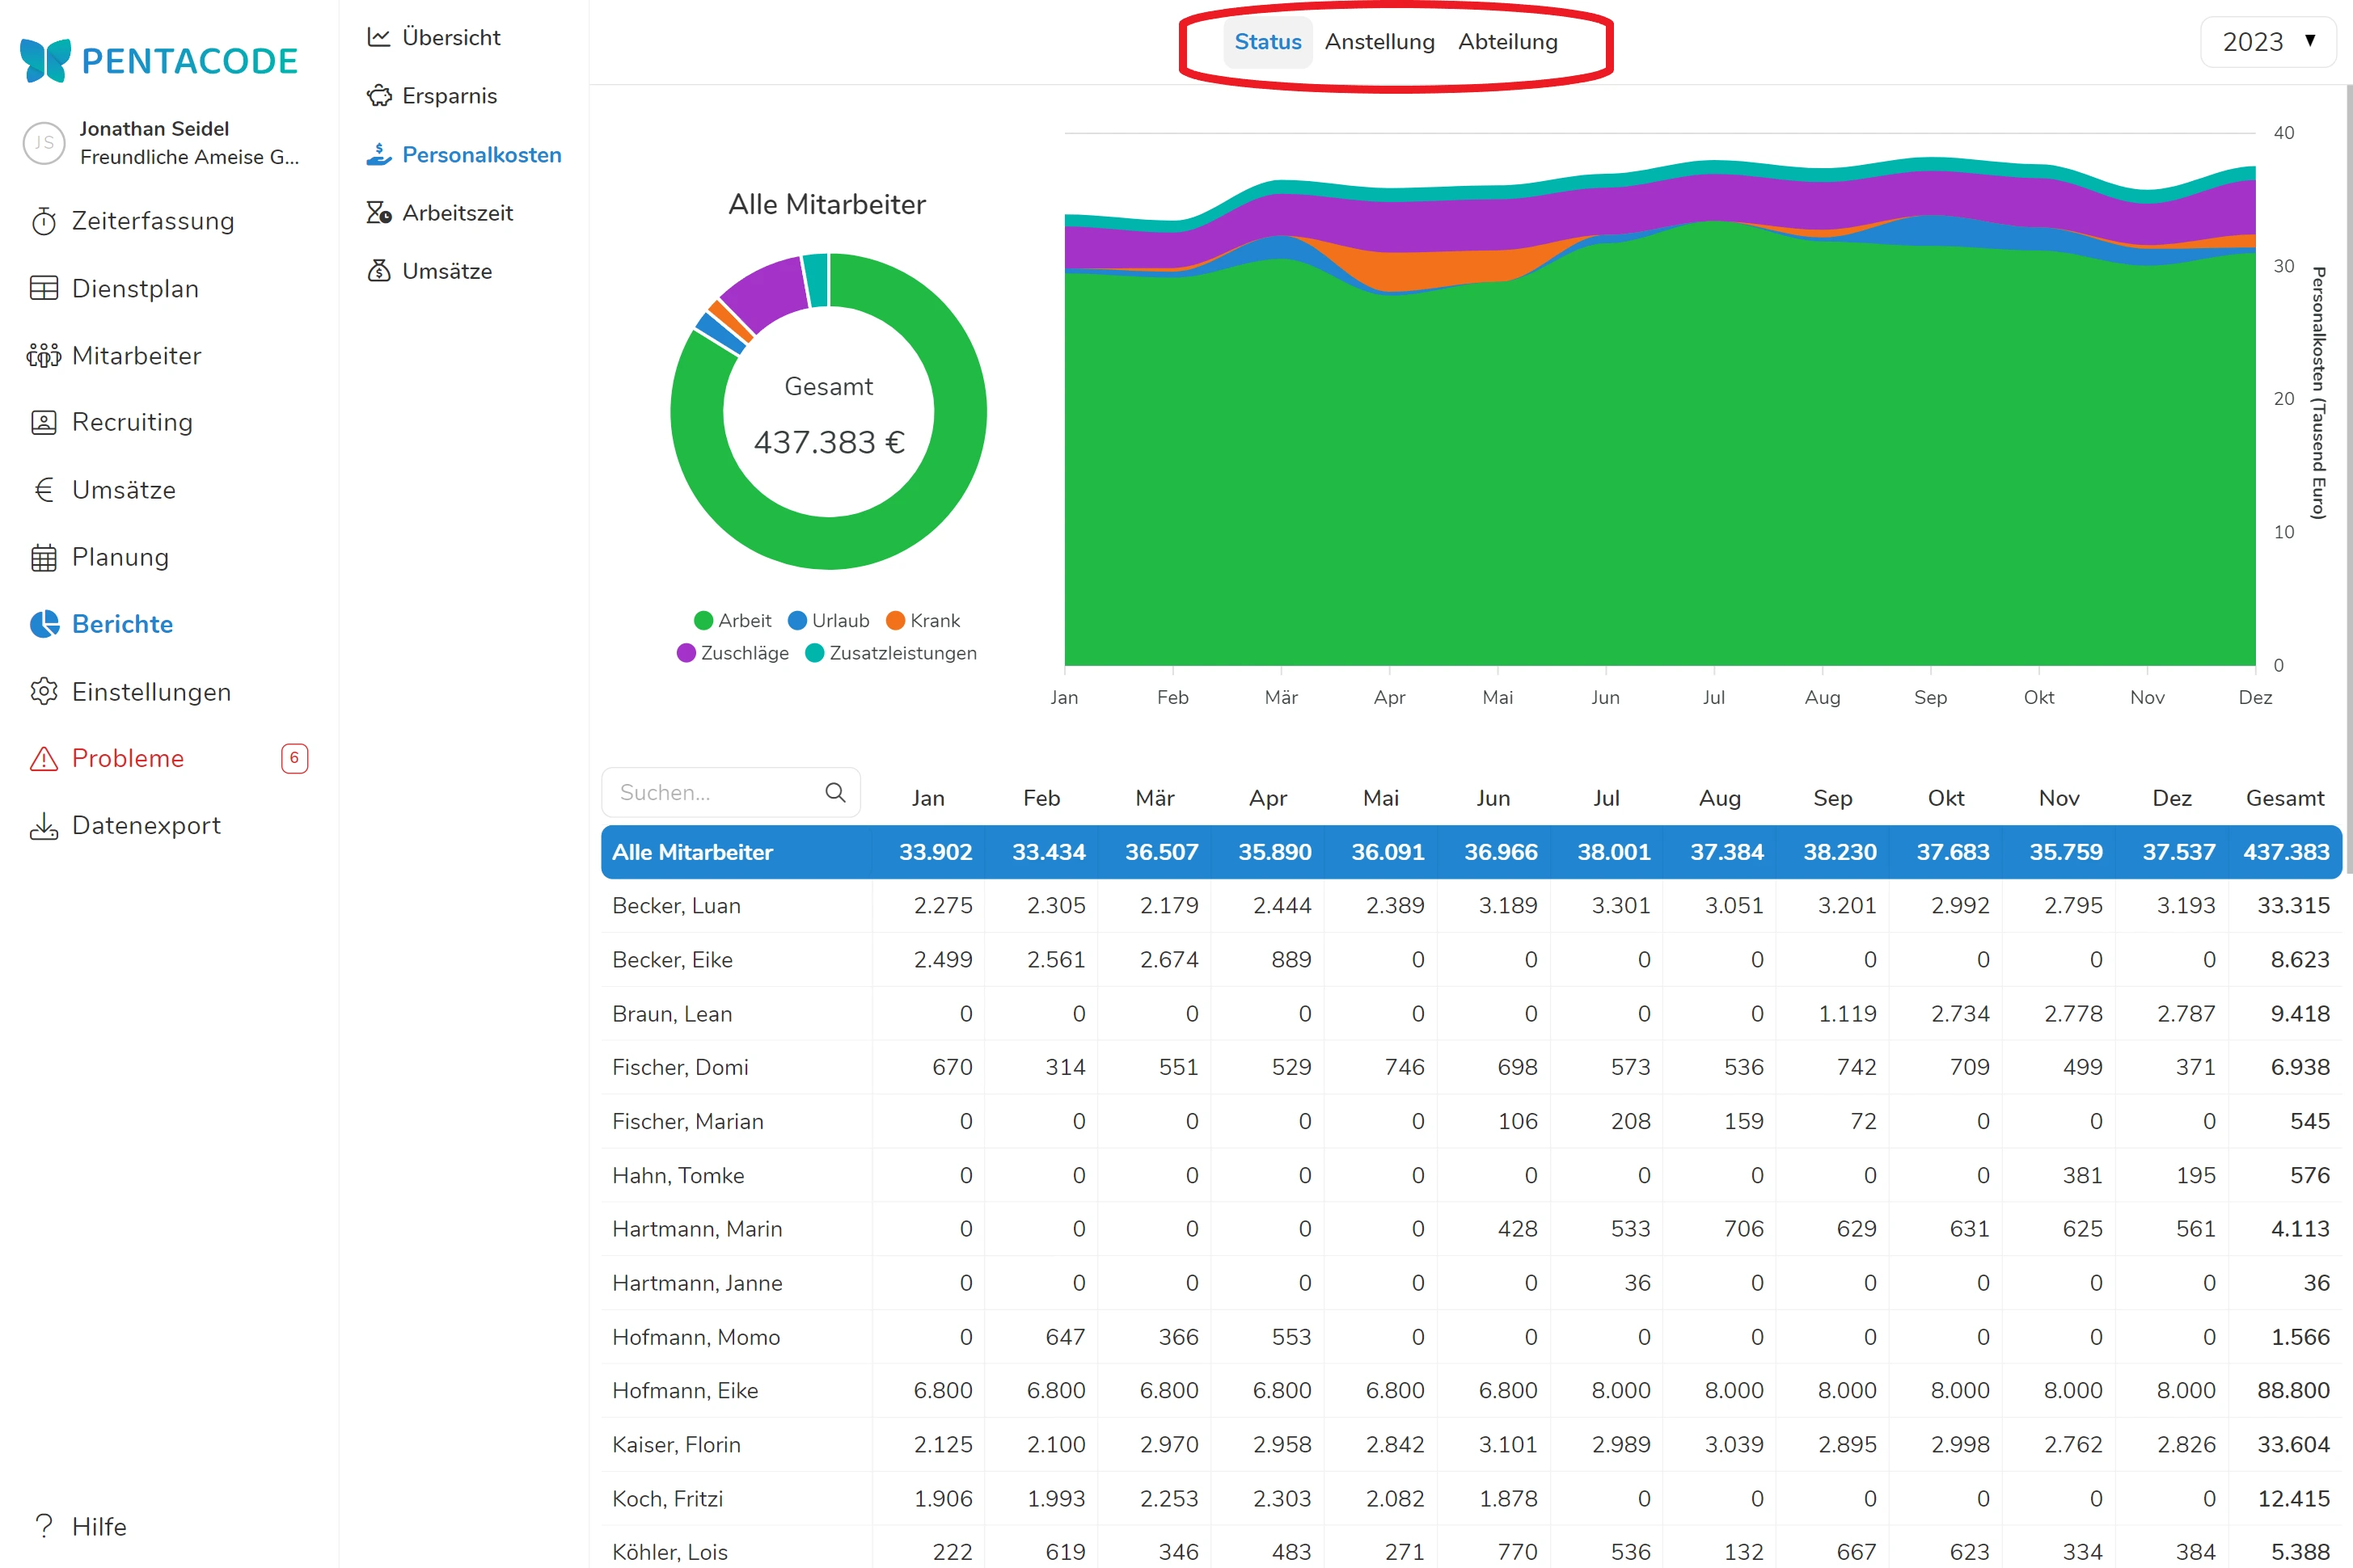
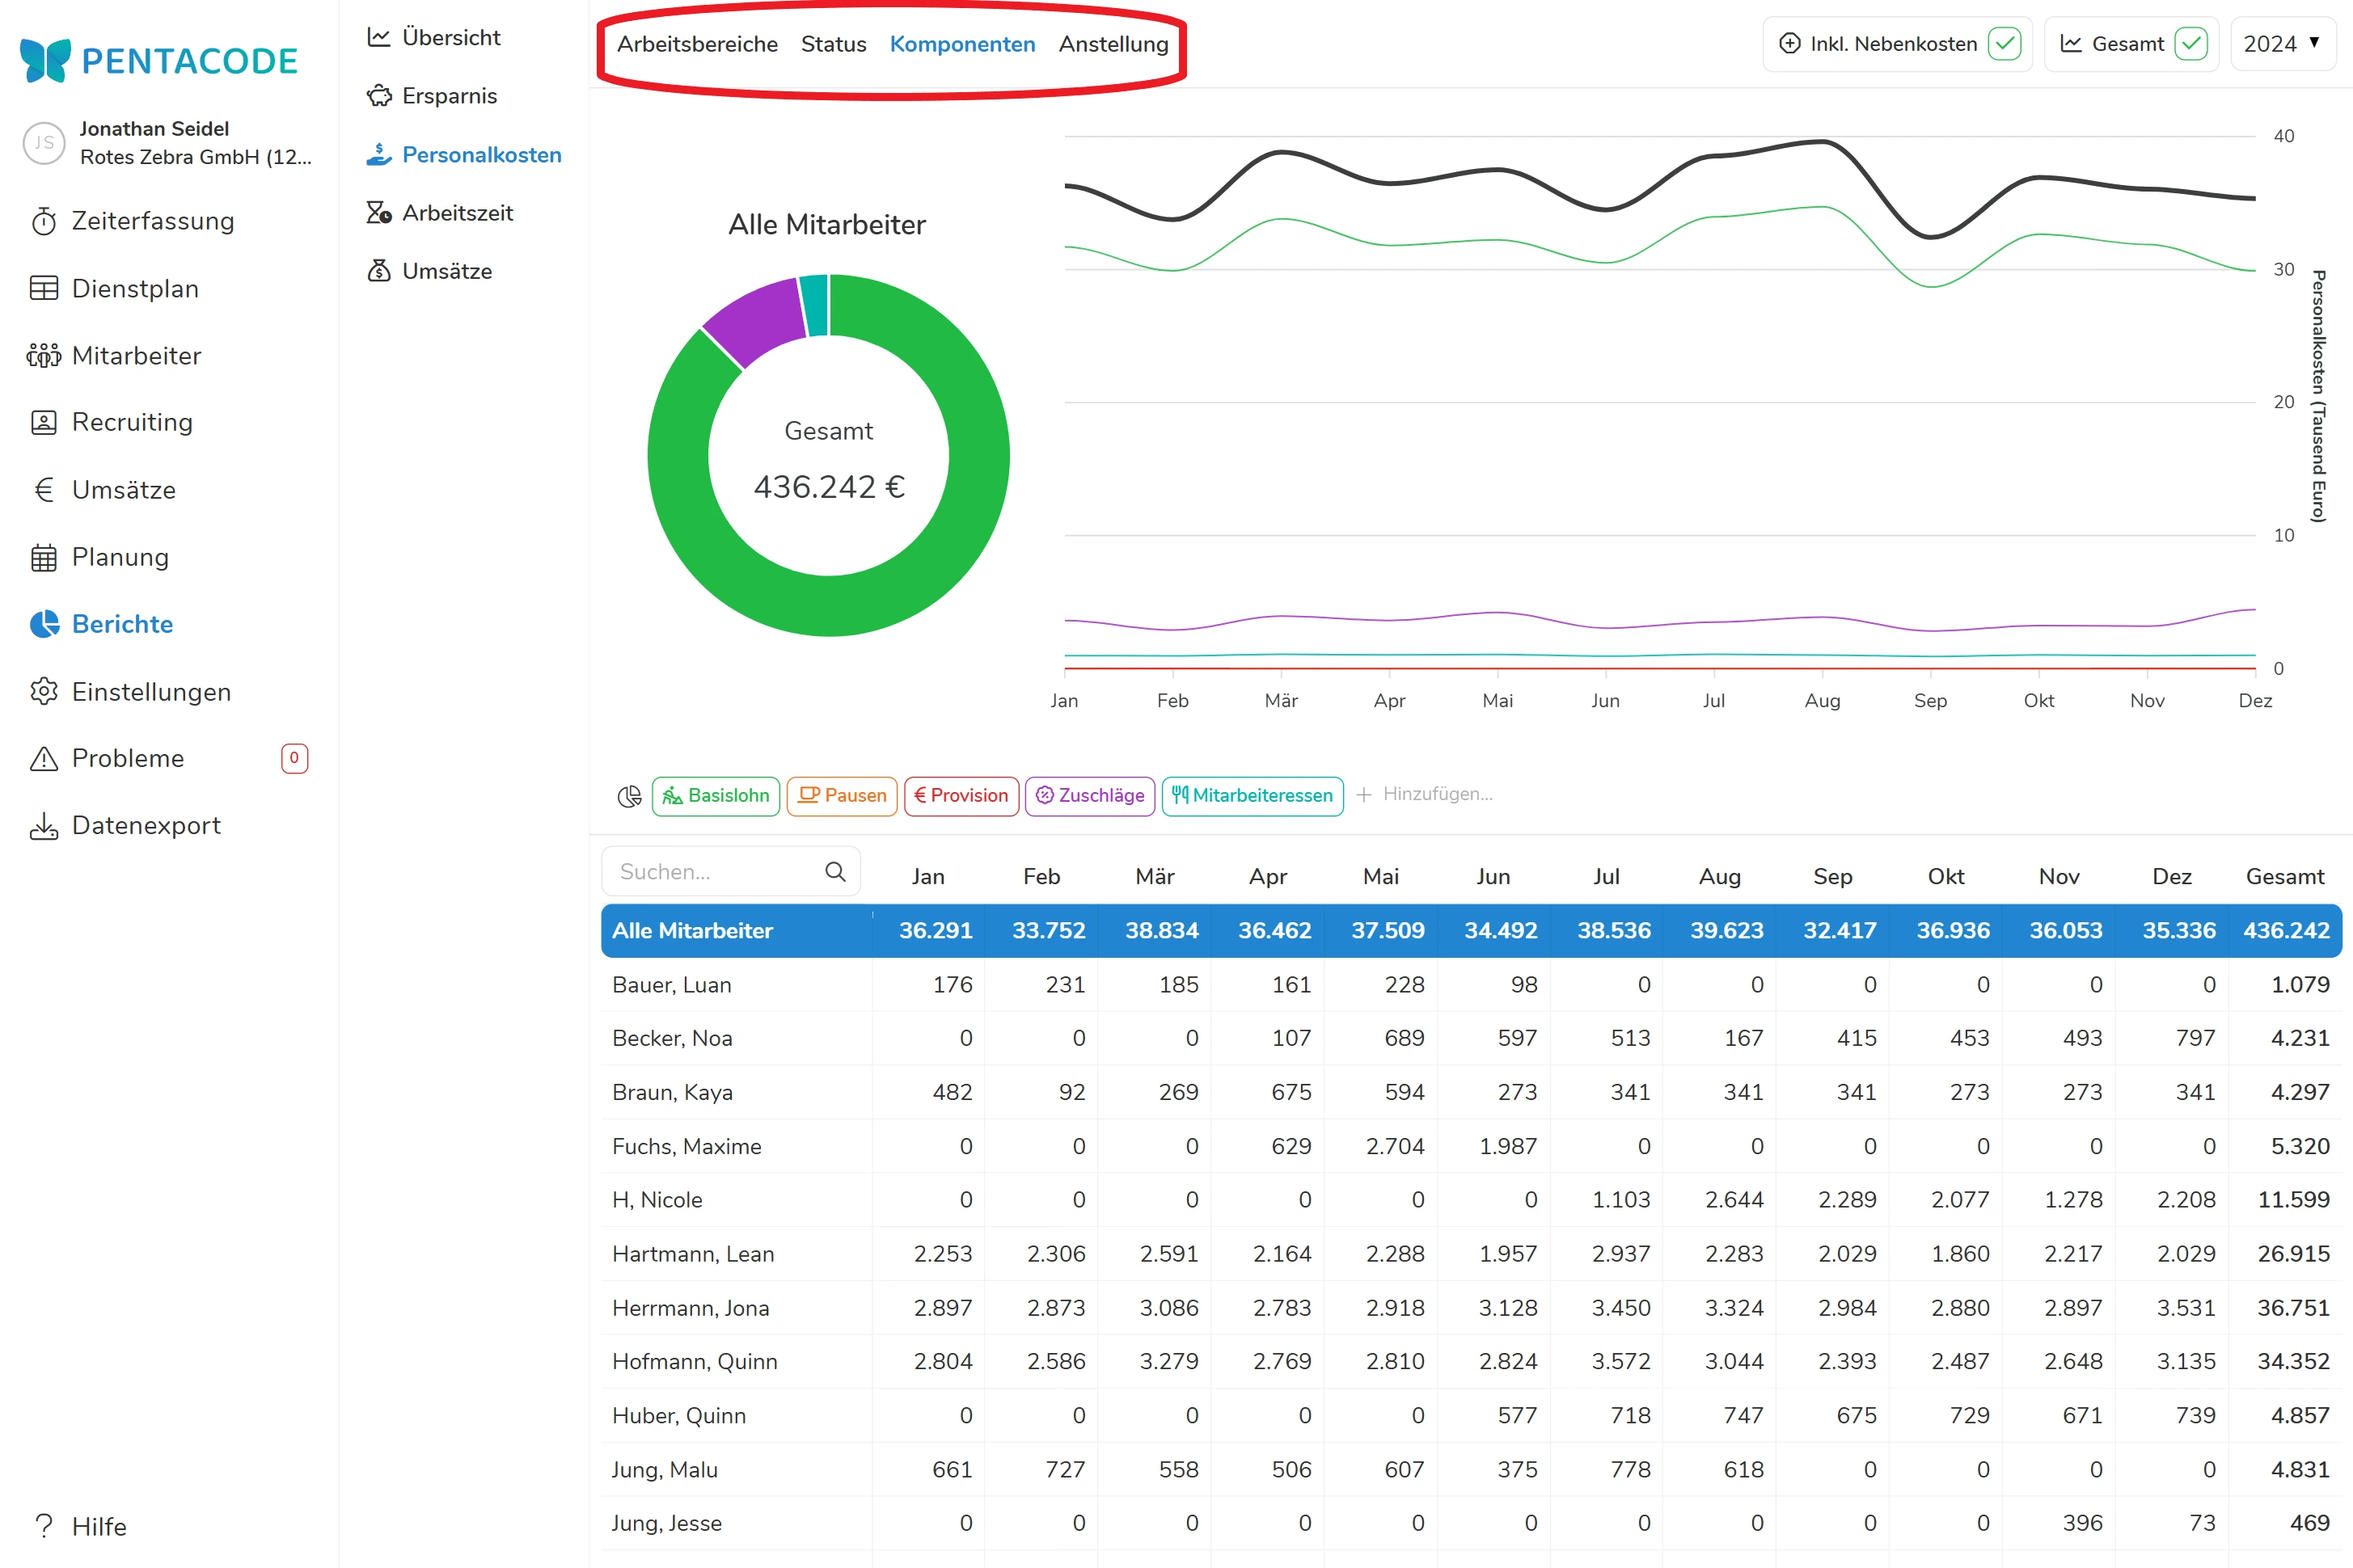
überarbeitung Personalkostenberichte

diff --git a/hilfe/handbuch/berichte/personalkostenberichte/index.md b/hilfe/handbuch/berichte/personalkostenberichte/index.md
@@ -1,43 +1,63 @@
 ---
 layout: layouts/hilfe/single.njk
 title: Personalkosten
-weight: 
+weight: 3
 icon: hand-holding-dollar
 keywords:
 - personalkosten
 
 ---
-Der Menüpunkt "**Personalkosten**" zeigt Ihnen grafisch Ihrer Aufwendungen für Lohn und Gehalt in **Summe** und in der **Zusammensetzung**. Die Lohnkosten beinhalten die **Arbeitgeberbeiträge** zur Sozialversicherung, nicht jedoch die Umlagen U1 und U2 und die Beiträge zur Berufsgenossenschaft.
+Der Menüpunkt "**Personalkosten**" zeigt Ihnen grafisch Ihrer Aufwendungen für Lohn und Gehalt in **Summe** und in der **Zusammensetzung**. Ob die Lohnkosten die **Arbeitgeberbeiträge** zur Sozialversicherung beeinhalten, können Sie unter [Nebenkosten](#inkl-nebenkosten) bestimmen.
+
+> {% icon "info-circle" %} **Wichtig:** Die Personalkosten werden anhand der durch die Mitarbeiter geleisteten Arbeit (inklusive Überstunden) ermittelt - nicht Anhand der tatsächlich ausgezahlten Löhne.
 
 ## Ansicht
 
-Sie können als Ansicht zwischen "**Status**", "**Anstellung**" und "**Abteilung**" wählen.
+Sie können als Ansicht zwischen "**Arbeitsbereiche**", "**Status**", "**Komponenten**" und "**Anstellung**" wählen. Zusätzlich können Sie noch die Zusatzeinstellungen "**Nebenkosten**" und "**Gesamtkosten**" ein- oder ausblenden. **In der oberen rechten Ecke wählen Sie das Jahr für den Personalkostenbericht aus.**
 
-"Status" zeigt die Lohnkosten in ihrer Zusammensetzung, "Anstellung" die Verteilung der Lohnkosten nach [Beschäftigungsverhältnis](/hilfe/handbuch/mitarbeiter/vertrag/) und "Abteilung" die Verteilung der Lohnkosten auf die Abteilungen in Ihrem Unternehmen.
-
-{% figure caption="Hier wählen Sie die Ansicht." %}
+{% figure caption="Hier wählen Sie die Aufteilung des Personalkostenberichts." %}
 
 <img src="personalkosten_ansicht.webp"/>
 
 {% endfigure %}
 
-## Jahres-Summe
+### Arbeitsbereiche
+Arbeitsbereiche zeigen die Aufteilung der Lohnkosten auf die verschiedenen [Abteilungen und Standorte](/hilfe/handbuch/einstellungen/arbeitsbereiche/) des Unternehmens. In der Filterleiste unter der Kreis- und Liniengrafik können Sie einstellen auf welche Arbeitsbereiche die Berichte aufgeteilt werden sollen. 
 
-Die "Tortengrafik" zeigt die während des Jahres fortlaufend **auflaufende Jahreslohn-Summe**. Ein "Mouse over" über die farbig abgesetzten Tortenstücke zeigt Ihnen die Summe der einzelnen [**Lohnarten**](/hilfe/handbuch/einstellungen/buchhaltung/), die Sie in Pentacode angelegt haben.
+### Status
+Die Statusansicht zeigt die Zusammensetzung der Personalkosten anhand des Arbeitsstatus des Mitarbeiters - also reguläre Arbeitstage, Urlaubstage, Krankheitstage und zusätzliche Optionen. In der Filterleiste unter der Kreis- und Liniengrafik können Sie einstellen auf Mitarbeiterstati die Berichte aufgeteilt werden sollen. 
 
-{% figure caption="Mit einem 'Mouse over' werden die einzelnen Beitragsleistungen gezeigt." %}
+### Komponenten 
+Die Komponentenansicht zeigt die Personalkosten aufgeteilt auf die verschiedenen Teile der Bezahlung. Darunter zählen etwa Basislohn, Zuschläge und bezahlte Pausen. In der Filterleiste unter der Kreis- und Liniengrafik können Sie einstellen auf welche Komponenten der Bezahlung die Berichte aufgeteilt werden sollen. 
 
-<img src="personalkosten.gif"/>
+{% figure caption="Mit dem Filter können Sie einstellen, welche Komponenten in den Bericht einfließen." %}
+
+<img src="komponenten_filter.gif"/>
 
 {% endfigure %}
 
-## Monats-Summen
+### Anstellung
+Die Anstellungsansicht zeigt die Personalkosten aufgeteilt auf die [Beschäftigungsverhältnis](/hilfe/handbuch/mitarbeiter/vertrag/). In der Filterleiste unter der Kreis- und Liniengrafik können Sie einstellen welche Beschäftigungsverhältnisse in die Berichte einfließen sollen. 
 
-In dieser Grafik werden die verschiedenen Lohnarten in ihrem **Jahresverlauf** mit eigenen Werten für jeden Monat gezeigt. Durch "Mouse over" erfahren Sie die Zusammensetzung in €-Beträgen.
+### Inkl. Nebenkosten
+Standardmäßig sind die Arbeitsgebernebenkosten für Sozialversicherung in den Personalkostenbericht mit einberechnet. Sie können diese jedoch deaktivieren, indem Sie den Haken bei "**Inkl. Nebenkosten**" in der oberen rechten Ecke abwählen. Sie werden sehen, dass sich einzelne Positionen, sowie die Gesamtkosten um die Nebenkosten reduzieren. 
 
-{% figure caption="Fahren Sie über einen Monat des angezeigten Jahres können Sie die genauen Beträge der Personalkosten sehen." %}
+> {% icon "exclamation-triangle" %} **Achtung** Die Umlagen U1 und U2, sowie die Beiträge zur Berufsgenossenschaft werden nicht als Nebenkosten mitberechnet.
 
-<img src="personalkosten_monat.webp"/>
+### Gesamtkosten
+Die normalerweiße in schwarz dargestellte Gesamtkostenlinie können Sie mit einem Klick auf  {% icon "chart-line" %} "**Gesamt**" deaktivieren. 
+
+## Tortendiagramm Jahres-Summe
+
+Die "Tortengrafik" zeigt die während des Jahres fortlaufend **auflaufende Jahreslohn-Summe**. Ein "Mouse over" über die farbig abgesetzten Tortenstücke zeigt Ihnen die einzelnen unter [Ansicht](#ansicht) bestimmten Komponenten der Personalkosten.
+
+## Liniendiagramm Monats-Summen
+
+Die "Liniengrafik" zeigt die Aufteilung der monatlichen Personalkosten über das ausgewählte Jahr. Ein "Mouse over" zeigt die genaue Aufteilung mit Summen für jede unter [Ansicht](#ansicht) bestimmte Komponente der Personalkosten.
+
+{% figure caption="Mit einem 'Mouse over' werden die einzelnen Komponenten der Personalkosten angezeigt." %}
+
+<img src="personalkosten.gif"/>
 
 {% endfigure %}
 

diff --git a/hilfe/handbuch/berichte/arbeitszeitberichte/index.md b/hilfe/handbuch/berichte/arbeitszeitberichte/index.md
@@ -1,7 +1,7 @@
 ---
 layout: layouts/hilfe/single.njk
 title: Arbeitszeit
-weight: 
+weight: 4
 icon: hourglass-clock
 keywords:
 - stundenaufwand

diff --git a/hilfe/handbuch/berichte/umsatzberichte/index.md b/hilfe/handbuch/berichte/umsatzberichte/index.md
@@ -1,7 +1,7 @@
 ---
 layout: layouts/hilfe/single.njk
 title: Umsätze
-weight: 
+weight: 5
 icon: sack-dollar
 keywords:
 - umsatzgruppen

diff --git a/hilfe/handbuch/berichte/berichtsuebersicht/index.md b/hilfe/handbuch/berichte/berichtsuebersicht/index.md
@@ -1,7 +1,7 @@
 ---
 layout: layouts/hilfe/single.njk
 title: Übersicht
-weight: 
+weight: 1
 icon: chart-line
 keywords:
 - übersicht

diff --git a/hilfe/handbuch/berichte/ersparnisberichte/index.md b/hilfe/handbuch/berichte/ersparnisberichte/index.md
@@ -1,7 +1,7 @@
 ---
 layout: layouts/hilfe/single.njk
 title: Ersparnis
-weight: 
+weight: 2
 icon: piggy-bank
 keywords:
 - ersparnis
